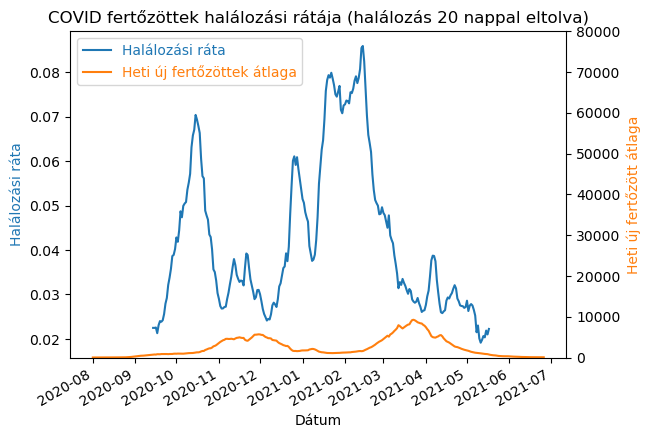
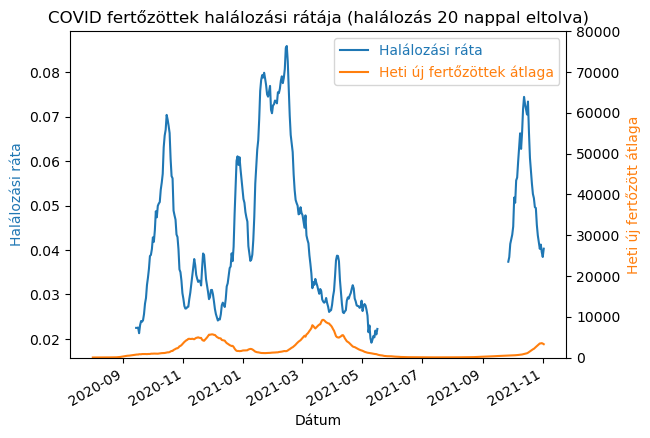
Halálozási ráta frissítése

diff --git a/kép_halálozási_ráta.py b/kép_halálozási_ráta.py
@@ -13,7 +13,7 @@ BASEDIR=os.path.dirname(__file__)
 # fertőzés utáni várható halál 20 nap
 VARHATO_HALAL=20
 
-df = pd.read_csv(BASEDIR +"/adatok/covidadatok.csv", parse_dates=['Dátum'])
+df = pd.read_csv(BASEDIR +"/adatok/hiradatok.csv", parse_dates=['Dátum'])
 df = df[df['Dátum'] >= "2020-08-01"].reset_index()
 
 fertozott = df.iloc[:-VARHATO_HALAL]
